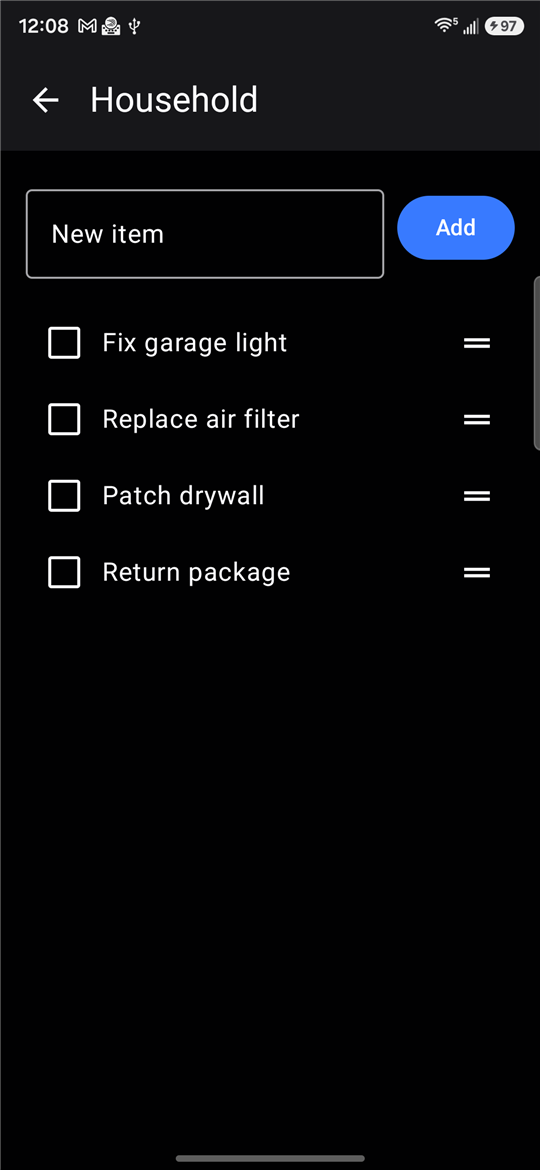
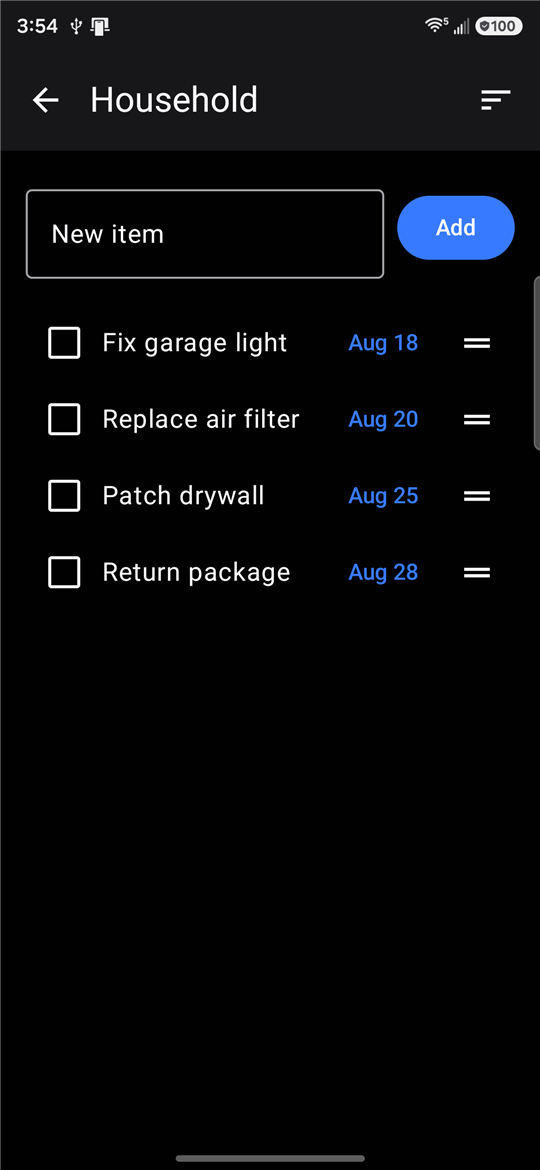
Refresh README and screenshots for due dates (#19)

diff --git a/README.md b/README.md
@@ -2,15 +2,17 @@
 
 [![CI](https://github.com/dnoeltx/ChecklistV1/actions/workflows/ci.yml/badge.svg)](https://github.com/dnoeltx/ChecklistV1/actions/workflows/ci.yml)
 
-A multi-list checklist app for Android — create separate lists (e.g. "Grocery", "To-do"), add items, check them off, and reorder everything with drag-and-drop. Data persists locally on the device.
+A multi-list checklist app for Android — create separate lists (e.g. "Groceries", "Household"), add items, check them off, set optional due dates, and reorder everything with drag-and-drop. Data persists locally on the device.
 
 Built as a hands-on project for learning modern Android development with AI-assisted coding.
+
+Signed release builds are published automatically on the [Releases page](https://github.com/dnoeltx/ChecklistV1/releases).
 
 ## Screenshots
 
 | Lists | Items | Lists (light) | Items (light) |
 |:--:|:--:|:--:|:--:|
-| <img src="docs/screenshots/lists-dark.png" width="200" alt="List overview in dark theme, showing three lists with remaining-item counts"> | <img src="docs/screenshots/items-dark.png" width="200" alt="Items within the Household list in dark theme, each with a checkbox and drag handle"> | <img src="docs/screenshots/lists-light.png" width="200" alt="List overview in light theme"> | <img src="docs/screenshots/items-light.png" width="200" alt="Items within the Household list in light theme"> |
+| <img src="docs/screenshots/lists-dark.png" width="200" alt="List overview in dark theme, showing three lists with remaining-item counts and a highlighted due-date toggle on the Household list"> | <img src="docs/screenshots/items-dark.png" width="200" alt="Items within the Household list in dark theme, each with a checkbox, due date and drag handle"> | <img src="docs/screenshots/lists-light.png" width="200" alt="List overview in light theme"> | <img src="docs/screenshots/items-light.png" width="200" alt="Items within the Household list in light theme"> |
 
 The app follows the system light/dark setting — the same screens are shown in both above.
 
@@ -20,7 +22,8 @@ The app follows the system light/dark setting — the same screens are shown in 
 - Add items to a list; checking an item off hides it from view
 - Each list shows a live count of remaining (unchecked) items
 - Drag-and-drop reordering of both lists and items within a list
-- Local persistence via Room/SQLite — data survives app restarts
+- Optional **due dates**, enabled per list — items get today's date by default, editable with a date picker, and a one-tap action reorders the list by date
+- Local persistence via Room/SQLite — data survives app restarts *and* schema upgrades
 - Custom adaptive app icon
 - Follows the system's light/dark theme automatically
 
@@ -30,16 +33,38 @@ The app follows the system light/dark setting — the same screens are shown in 
 - **Jetpack Compose** + **Material 3** for the UI
 - **Room** for local persistence, with **KSP** generating its code at compile time
 - [**Reorderable**](https://github.com/Calvin-LL/Reorderable) for drag-and-drop list reordering
-- Architecture: Composable screens observe a `Flow` exposed by an `AndroidViewModel`, which reads/writes through a Room DAO
+- Architecture: Composable screens observe a `Flow` exposed by a `ViewModel`, which reads and writes through a Room DAO. The DAOs are passed in via the constructor, so tests can substitute in-memory fakes.
 
 ## Data model
 
 Two Room entities:
 
-- `TodoList` — id, name, position
-- `ChecklistItem` — id, listId (foreign key → `TodoList.id`, `ON DELETE CASCADE`), text, isChecked, position
+- `TodoList` — id, name, position, dueDatesEnabled
+- `ChecklistItem` — id, listId (foreign key → `TodoList.id`, `ON DELETE CASCADE`), text, isChecked, position, dueDate
 
 Deleting a list automatically deletes its items.
+
+Due dates are stored as ISO-8601 text (`"2026-08-18"`) rather than epoch milliseconds: a due date is a day rather than an instant, so this sorts correctly in plain SQL and avoids timezone drift.
+
+The schema is versioned and exported to [`app/schemas`](app/schemas), and changes ship with a real migration — upgrading the app preserves existing data.
+
+## Testing
+
+```
+./gradlew testDebugUnitTest
+```
+
+Three layers, all running on the JVM with no device required:
+
+- **ViewModel tests** against hand-written in-memory fake DAOs — fast feedback on logic
+- **DAO tests** against real SQLite via Robolectric — these execute the actual generated SQL, so a wrong `ORDER BY` or a broken `GROUP BY` fails here rather than on a phone
+- **Migration tests** using `MigrationTestHelper`, which builds a database from the committed v3 schema, migrates it, and validates the result against v4
+
+## CI/CD
+
+- **CI** ([`ci.yml`](.github/workflows/ci.yml)) compiles and runs the test suite on every pull request
+- **CD** ([`release.yml`](.github/workflows/release.yml)) triggers on a `vX.Y.Z` tag: it derives the version from the tag, builds a release APK signed with a key held in GitHub Secrets, verifies the signature with `apksigner`, and publishes the APK to a GitHub Release
+- Dependencies and GitHub Actions are kept current by Dependabot
 
 ## Requirements
 
